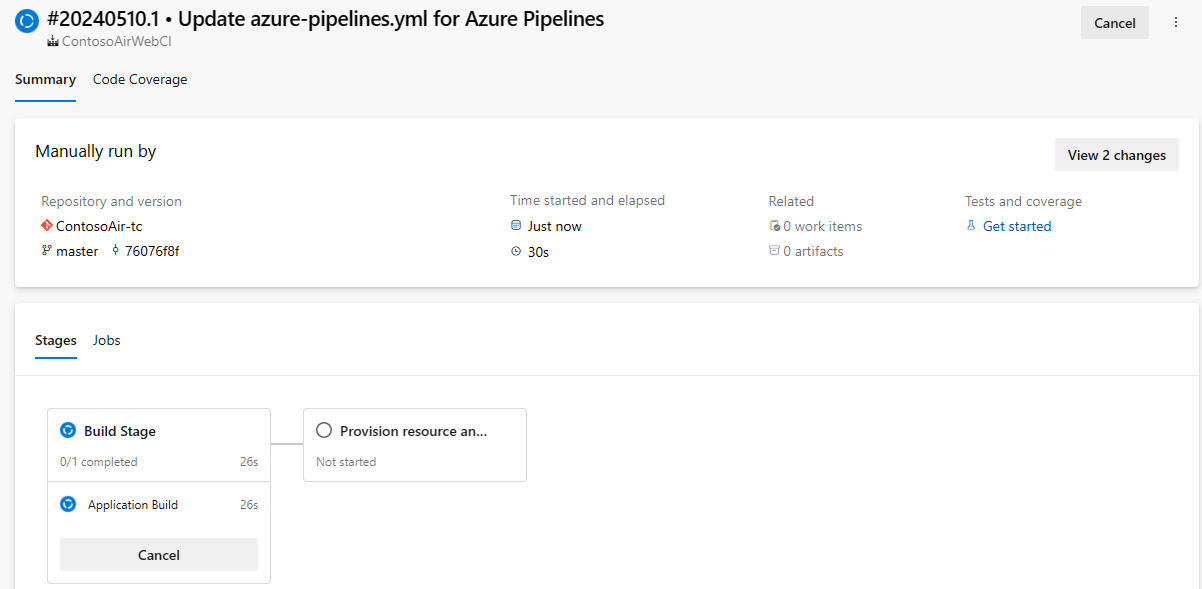
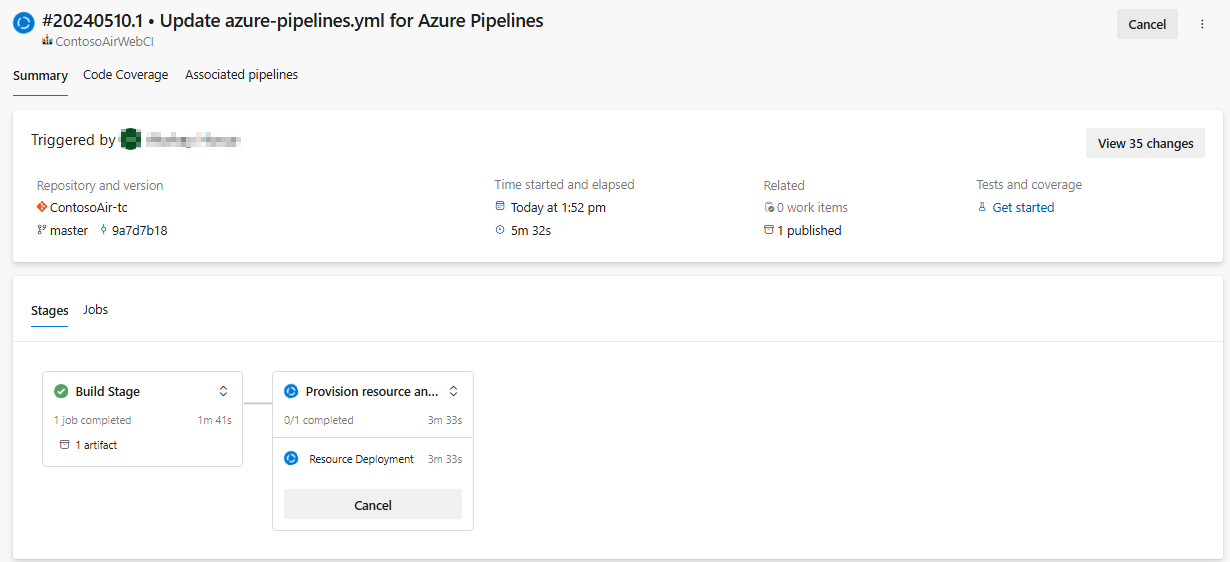
updated the content

diff --git a/labs/vstsextend/nodejs/readme.md b/labs/vstsextend/nodejs/readme.md
@@ -74,16 +74,23 @@ Run the pipeline to provision the resources using ARM templates and deploy the N
 
 ## Exercise 2: Configuring the Azure DevOps pipeline
 
-1. Naviget to Pipelines and select the pipeline **ContosoAirWebCI**. Click on **Run Pipeline** and click on **Run** to trigger the pipeline.
+1. Naviget to Pipelines and select the pipeline **ContosoAirWebCI** and **Edit** the pipeline.
 
-    ![](images/007.png)
+    ![](images/013.png)
+
+1. Scroll down to **AzureResourceManagerTemplateDeployment** and click on the setting to open the task assistant. 
+
+1. Update the Service connection details using the Task assistant, click on **Validate and Save** and **Save**, commit directly to the master branch to save the pipeline.
+
+    ![](images/014.png)
+
+
+1. Once you commit on to the master branch, the pipeline will be triggered automatically.
 
 
     ![](images/008.png)
 
 1. Once the pipeline is completed, navigate to the Azure portal and verify the resources provisioned.
-
-    ![](images/009.png)
 
     ![](images/010.png)
 
